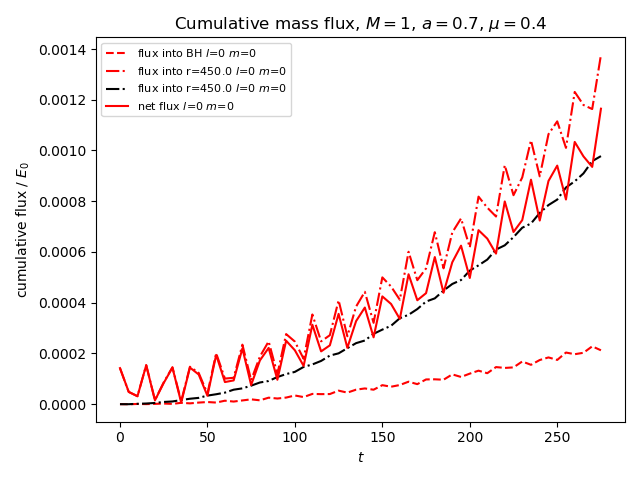
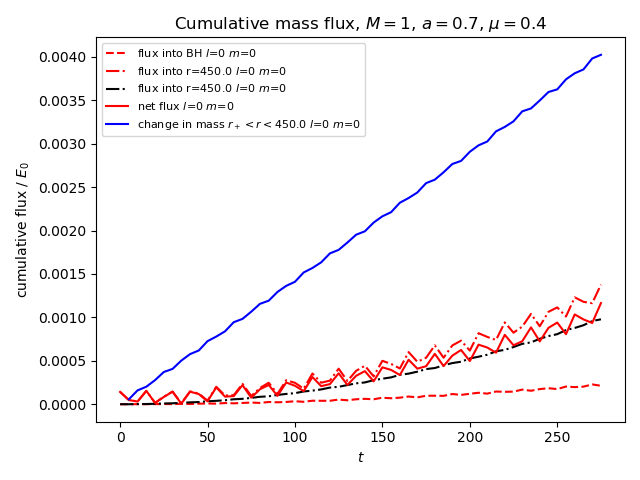
new plot with mass

diff --git a/Analysis/scripts/plot_mass_flux_KS.py b/Analysis/scripts/plot_mass_flux_KS.py
@@ -117,7 +117,7 @@ r_max = 450
 average_time = False
 av_n = 1
 cumulative=True
-plot_mass=False
+plot_mass=True
 
 def load_flux_data():
 	# load data from csv files
@@ -136,7 +136,7 @@ def load_mass_data():
         data = {}
         print(data_dirs)
         for dd in data_dirs:
-                file_name = home_path + "data/mass_data" + "/" + "{:s}_mass_in_r={:d}_chombo.dat".format(dd.name, r_max)
+                file_name = home_path + "data/mass_data" + "/" + "{:s}_mass_in_r={:d}.dat".format(dd.name, r_max)
                 data_line = np.genfromtxt(file_name, skip_header=1)
                 data[dd.num] = data_line
                 print("loaded mass data for " + file_name)
